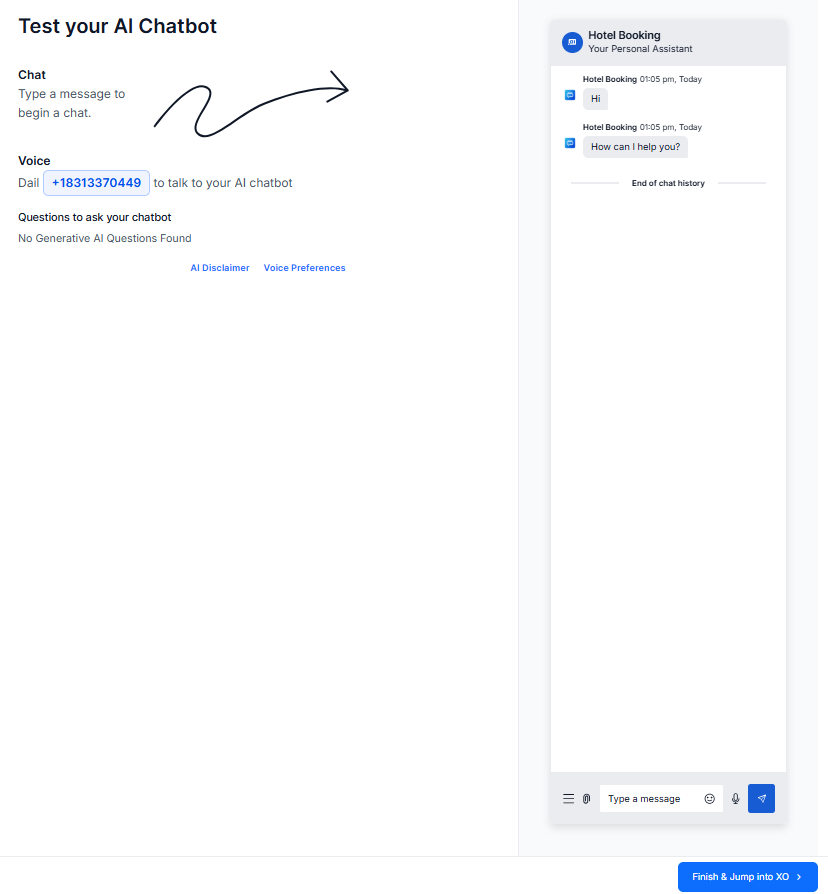
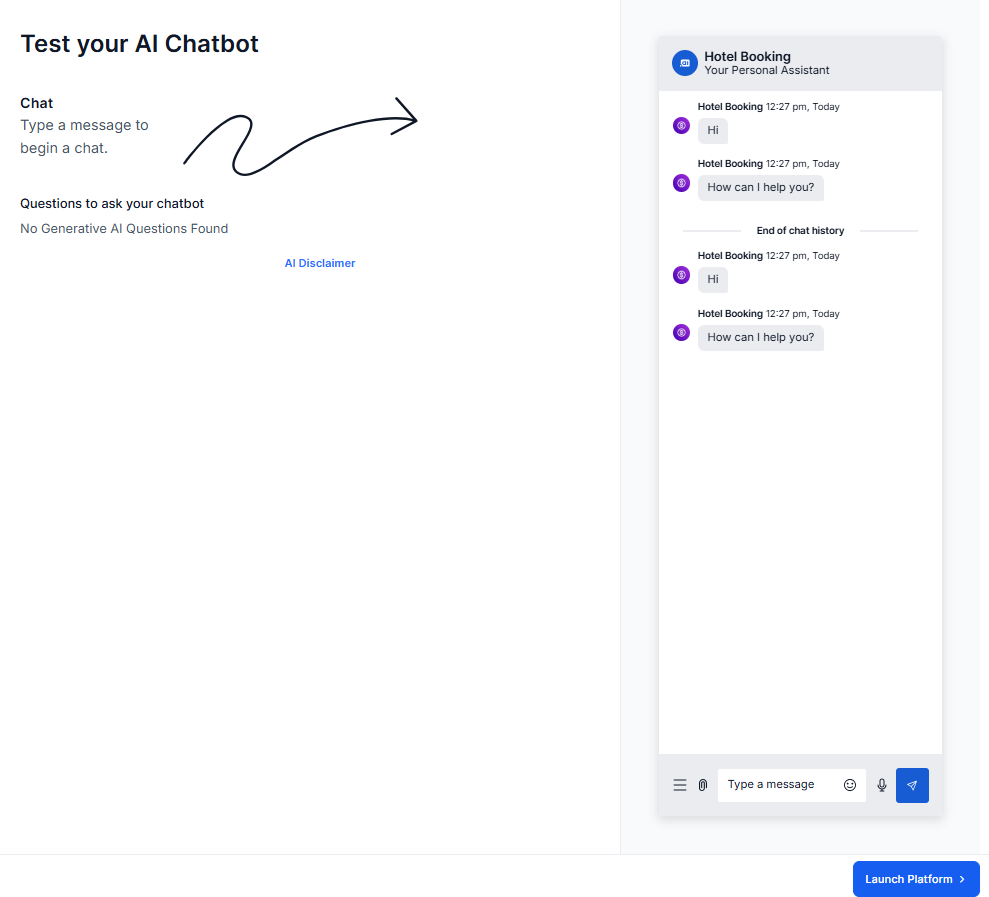
updates

diff --git a/docs/xo/channels/adding-channels-to-your-bot.md b/docs/xo/channels/adding-channels-to-your-bot.md
@@ -57,7 +57,7 @@ Click the icon of the channel you want to add, and then configure the channel to
 
 ### Social Channels
 
-|[Facebook<br>Messenger](./add-facebook-messenger-channel.md)     <br> [![](./images/logo26-fb-messenger.png)](./add-facebook-messenger-channel.md)|[Instagram](./add-instagram-channel.md)   <br>  <br> [![](./images/insta-logo.png)](./add-instagram-channel.md) |[Line](./add-line-messenger-channel.md) <br>  <br>   [![](./images/logo27-line.png)](./add-line-messenger-channel.md)|[Skype](./add-skype-channel.md) <br> <br>    [![](./images/logo28-skype.png)](./add-skype-channel.md)|[Twitter](./add-twitter-channel.md)<br><br>[![](./images/logo30-twitter.png)](./add-twitter-channel.md)|
+|[Facebook<br>Messenger](./add-facebook-messenger-channel.md)     <br> [![](./images/logo26-fb-messenger.png)](./add-facebook-messenger-channel.md)|[Instagram](./add-instagram-channel.md)   <br>  <br> [![](./images/insta-logo.png)](./add-instagram-channel.md) |[Line](./add-line-messenger-channel.md) <br>  <br>   [![](./images/logo27-line.png)](./add-line-messenger-channel.md)||[Twitter](./add-twitter-channel.md)<br><br>[![](./images/logo30-twitter.png)](./add-twitter-channel.md)|
 |:--------:|:----:|:----:|:----:|:----:|
 [**Telegram**](./add-telegram-channel.md)   <br>  <br> [![](./images/logo29-telegram.png)](./add-telegram-channel.md) |[**WeChat**](./add-wechat-channel.md)   <br> <br>  [![](./images/logo31-we-chat.png)](./add-wechat-channel.md)| 
 

diff --git a/docs/xo/getting-started/guided-onboarding.md b/docs/xo/getting-started/guided-onboarding.md
@@ -19,7 +19,7 @@ After signing up, users are guided through the onboarding process as follows:
 
         If you want to add FAQs and upload documents for Answers generation, see the [best practices guide](./best-practices-faq-and-answer.md).        
 
-6. At the end of the journey, your app will be ready. **Finish and jump into XO**.  
+6. At the end of the journey, your app will be ready. **Launch Platform**.  
 <img src="../images/accplatform(21).png" alt="image_tooltip" title="image_tooltip" style="border: 1px solid gray; zoom:70%;">
 
 **Related Links**

diff --git a/docs/xo/channels/add-skype-channel.md b/docs/xo/channels/add-skype-channel.md
@@ -1,5 +1,9 @@
 # Adding the Skype Channel
 
+!!! important
+
+    The Skype channel is deprecated
+
 To add the Skype channel to your bot, you need a developer _Microsoft Bot Framework_ account to configure the connection between Skype and Kore.ai. Adding the Skype channel to your Kore.ai bot is a three-step process to allow end-users to interact with your bot. To add the Skype channel to your bot, follow the below steps:
 
 

diff --git a/docs/xo/channels/add-google-assistant-channel.md b/docs/xo/channels/add-google-assistant-channel.md
@@ -2,7 +2,7 @@
 
 !!! important
 
-    The Google Assistant Conversational Actions will be sunsetted on June 13, 2023. For details, see [Conversational Actions sunset](https://developers.google.com/assistant/ca-sunset/).
+    The Google Assistant Conversational Actions will be deprecated on June 13, 2023. For details, see [Conversational Actions sunset](https://developers.google.com/assistant/ca-sunset/).
 
 
 ## Requirements
